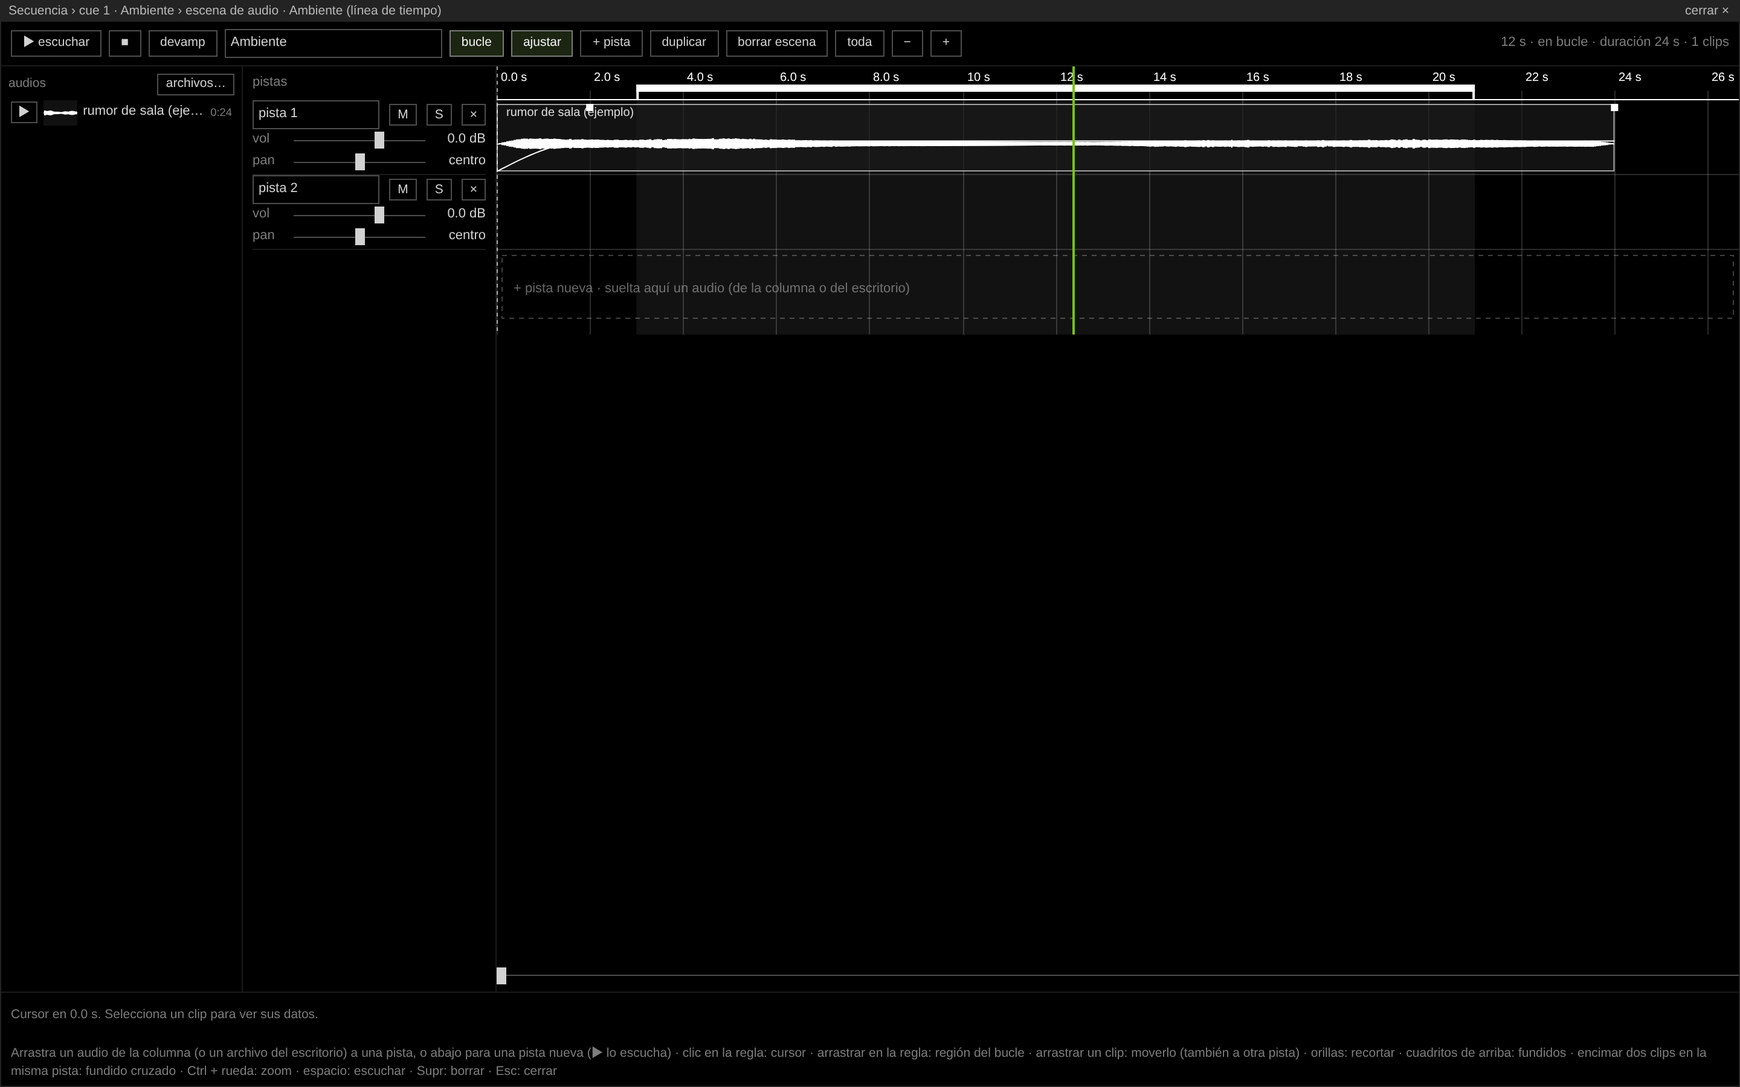
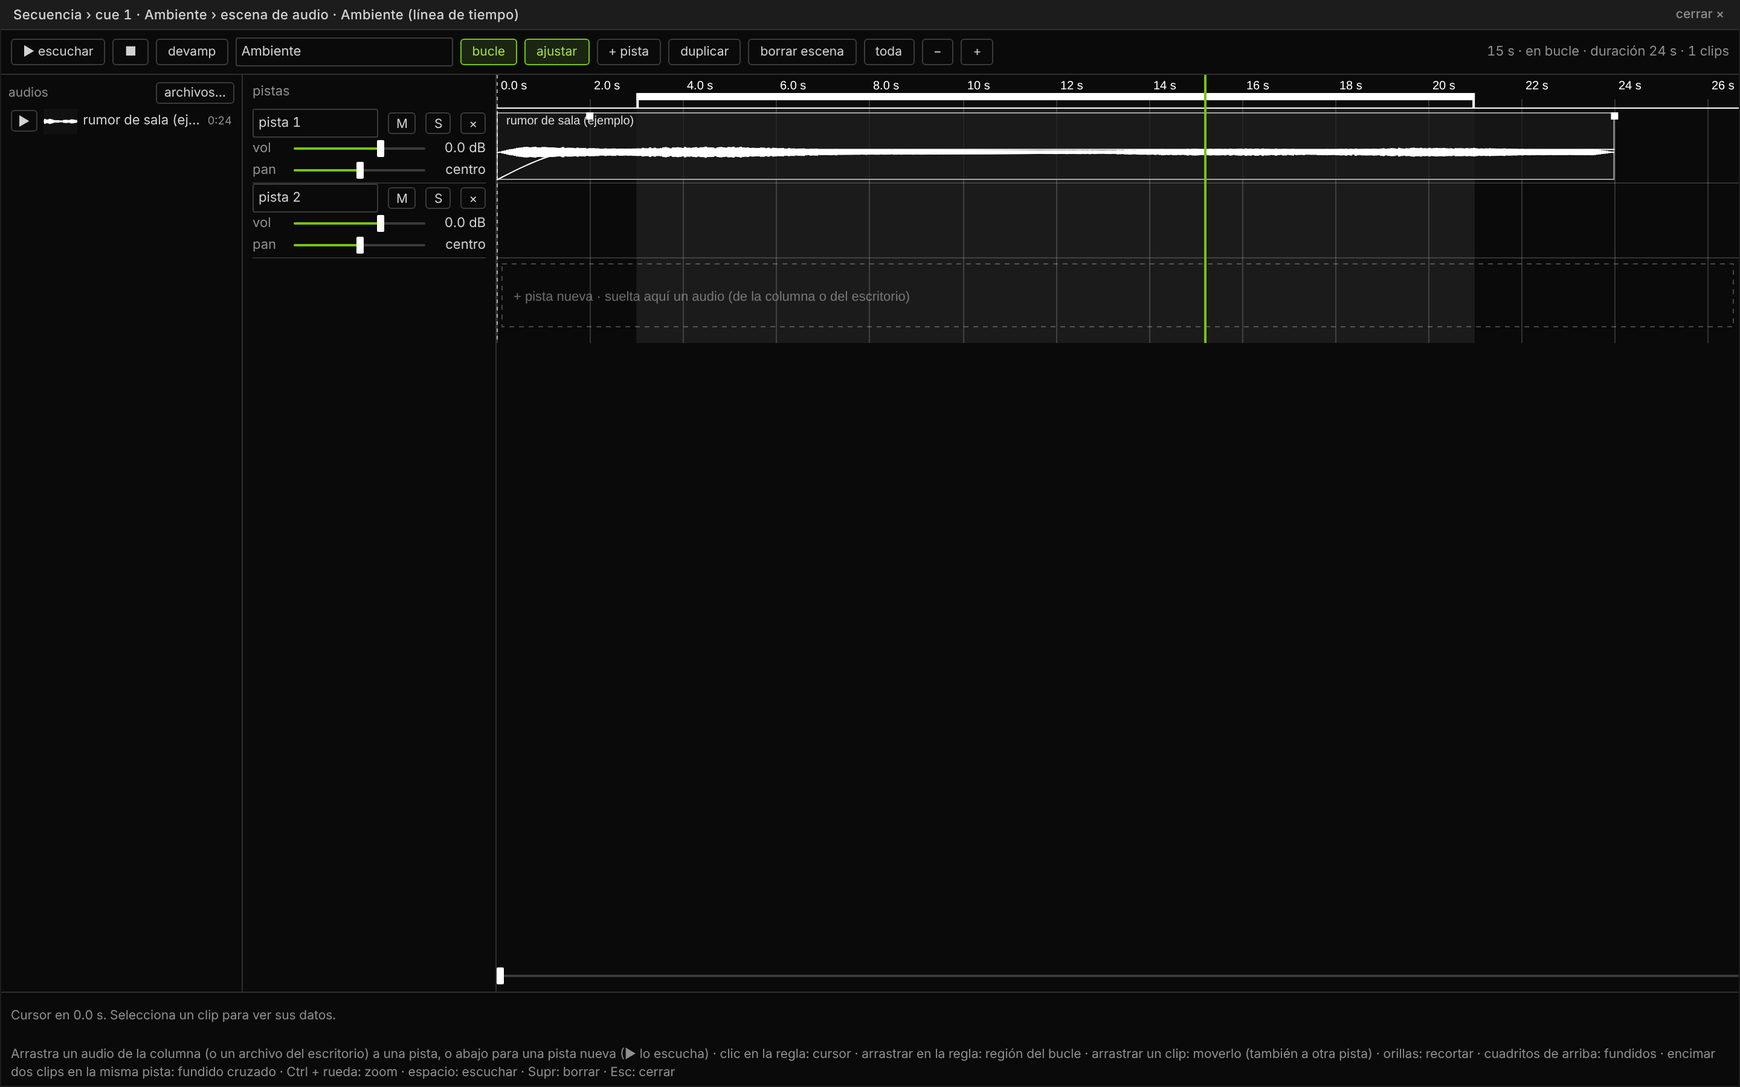
aurigaQ v041: interfaz con el estilo de la colección y capturas nuevas
- Contraste «suave» con Alchemy of Meaning UI v1: paneles casi negros,
  barras de título grises, líneas finas, radios de 3 px, deslizadores con
  recorrido de acento y el verde solo para lo vivo. «Alto» sin cambios.
- Cabeceras de capa del Timeline sin encimarse.
- Las diez capturas de docs/capturas rehechas con la interfaz nueva.

Claude-Session: https://claude.ai/code/session_01UhLHLyFeGcYgSn7U15QgHG

Changed region(s): [[0.0, 0.0, 1.0, 0.3422], [0.0, 0.9644, 0.9688, 0.9956]]

diff --git a/index.html b/index.html
@@ -4,7 +4,7 @@
 <meta charset="utf-8">
 <meta name="viewport" content="width=device-width, initial-scale=1, viewport-fit=cover">
 <!--
-  aurigaQ v040
+  aurigaQ v041
   Media server y gestor de cues para presentar en vivo los artefactos de la colección.
   Parte de la colección Alchemy of Meaning (Alquimia del Significado).
   © 2026 Héctor Cruz Juárez · https://hectorcruz.com.mx
@@ -328,6 +328,11 @@ input[type=file]{display:none}
 #escEd .eeHeads{width:210px;flex:none;border-right:1px solid var(--ln);padding:0 8px}
 #escEd .eeHead{display:flex;flex-direction:column;justify-content:center;gap:0;border-bottom:1px solid var(--ln)}
 #escEd .eeHead .dr .lb{width:26px}
+#escEd .eeHead.v{gap:2px}
+#escEd .eeHead.v .dr .lb{width:50px}
+#escEd .eeHead.v input[type=text],#escEd .eeHead.v select{height:20px;padding:0 4px}
+#escEd .eeHead.v input[type=range]{height:14px}
+#escEd .eeHead.v .b.s{min-height:20px}
 #escEd .eeRight{flex:1;min-width:0;display:flex;flex-direction:column}
 #escEd .eeCvw{min-width:0;flex:1}
 #escEd canvas{display:block;touch-action:none}
@@ -418,18 +423,58 @@ input[type=file]{display:none}
 .mtile.cur{border-color:var(--ac)}
 .lyr .mx i{background:var(--ac)}
 
-/* contraste suave: para sesiones largas de edición. Barras de título oscuras, líneas grises, texto gris claro
-   y la fila seleccionada en un verde muy oscuro con su borde verde. GO, modo y lo que está al aire siguen en verde. */
-html[data-contraste="suave"]{--fg:#d2d2d2;--ln2:#4d4d4d;--tb:#232323;--tbfg:#b8b8b8;--sel:#1b2512;--selfg:#f2f2f2;--g1:#7d7d7d;--ln:rgba(255,255,255,.1);--hv:rgba(255,255,255,.05);--hv2:rgba(255,255,255,.09)}
-html[data-contraste="suave"][data-barra="1"]{--tb:#2c2c2c}html[data-contraste="suave"][data-barra="2"]{--tb:#363636}html[data-contraste="suave"][data-barra="3"]{--tb:#1a1a1a}
-html[data-contraste="suave"] .win{border-color:#333}
-html[data-contraste="suave"] .ql tbody tr.cur td:first-child{box-shadow:inset 3px 0 0 var(--ac)}
-html[data-contraste="suave"] .mrow.cur{box-shadow:inset 2px 0 0 var(--ac)}
-html[data-contraste="suave"] .li.cur{box-shadow:inset 2px 0 0 var(--ac)}
-html[data-contraste="suave"] .b[aria-pressed="true"]{border-color:#7a7a7a}
-html[data-contraste="suave"] .ql tbody tr.cur td .dim,html[data-contraste="suave"] .mrow.cur .ix,html[data-contraste="suave"] .mrow.cur .inf,html[data-contraste="suave"] .li.cur small{color:#9a9a9a}
-html[data-contraste="suave"] #go:not(:hover){background:#0d1408}
-html[data-contraste="suave"] .tb .b,html[data-contraste="suave"] .win .tb .quitar{border-color:#5a5a5a}
+/* contraste suave = estilo Alchemy of Meaning UI v1 (colección): ventanas en panel gris casi negro, barras
+   de título grises, líneas finas, radios de 3 px. El verde es solo para lo vivo o principal (GO, activo,
+   al aire, progreso); los segmentados activos van en tinta clara. «alto» conserva el blanco sobre negro. */
+html[data-contraste="suave"]{
+  --a-bg:#0a0a0a;--a-panel:#101010;--a-bar:#1c1c1c;--a-line:#2e2e2e;--a-line-ctl:#3a3a3a;--a-hover:#1f1f1f;
+  --a-ink:#d2d2d2;--a-ink-strong:#fff;--a-ink-dim:#8f8f8f;
+  --a-accent:#76c411;--a-accent-ink:#a5e04a;--a-accent-bg:#1b2512;
+  --a-radius:3px;--a-radius-sm:2px;--a-gap:8px;--a-pad:10px;--a-bar-h:24px;--a-t:120ms;
+  --a-font:Inter,Arial,Helvetica,sans-serif;
+  --bg:var(--a-bg);--fg:var(--a-ink);--ln2:var(--a-line-ctl);--tb:var(--a-bar);--tbfg:var(--a-ink);--sel:var(--a-accent-bg);--selfg:var(--a-accent-ink);
+  --g1:var(--a-ink-dim);--ln:var(--a-line);--hv:rgba(255,255,255,.035);--hv2:var(--a-hover);--ink:var(--a-ink-strong)}
+html[data-contraste="suave"][data-barra="1"]{--tb:#262626}html[data-contraste="suave"][data-barra="2"]{--tb:#303030}html[data-contraste="suave"][data-barra="3"]{--tb:#141414}
+html[data-contraste="suave"] body{font-family:var(--a-font);font-variant-numeric:tabular-nums;-webkit-font-smoothing:antialiased}
+html[data-contraste="suave"] :focus-visible{outline:2px solid var(--a-accent);outline-offset:2px}
+/* ventanas: dentro de cada una, el fondo de controles y encabezados es el del panel */
+html[data-contraste="suave"] .win{--bg:var(--a-panel);background:var(--a-panel);border-color:var(--a-line);border-radius:var(--a-radius);overflow:hidden}
+html[data-contraste="suave"] .tb{height:var(--a-bar-h);padding:0 var(--a-pad);border-bottom:1px solid var(--a-line);font-size:11px;font-weight:500;letter-spacing:.02em}
+html[data-contraste="suave"] .tb button{color:var(--a-ink-dim);transition:color var(--a-t)}
+html[data-contraste="suave"] .tb button:hover{color:var(--a-ink-strong)}
+html[data-contraste="suave"] .tb small{color:var(--a-ink-dim);opacity:1}
+html[data-contraste="suave"] .tb .b,html[data-contraste="suave"] .win .tb .quitar{border-color:var(--a-line-ctl);color:var(--a-ink)}
+html[data-contraste="suave"] .wb{padding:var(--a-pad)}
+/* botones: activo = fondo y borde de acento; segmentados: activo en tinta clara */
+html[data-contraste="suave"] .b{border-color:var(--a-line-ctl);border-radius:var(--a-radius);transition:background var(--a-t),border-color var(--a-t),color var(--a-t)}
+html[data-contraste="suave"] .b:hover{background:var(--a-hover);border-color:#555}
+html[data-contraste="suave"] .b[aria-pressed="true"]{background:var(--a-accent-bg);border-color:var(--a-accent);color:var(--a-accent-ink)}
+html[data-contraste="suave"] .seg .b{border-radius:0}
+html[data-contraste="suave"] .seg .b[aria-pressed="true"],html[data-contraste="suave"] .ndCats .b[aria-pressed="true"],html[data-contraste="suave"] #contraste .b[aria-pressed="true"],html[data-contraste="suave"] .guiaTabs .b[aria-pressed="true"]{background:var(--a-ink);border-color:var(--a-ink);color:#0a0a0a;font-weight:500}
+/* campos */
+html[data-contraste="suave"] select,html[data-contraste="suave"] input[type=text],html[data-contraste="suave"] input[type=number],html[data-contraste="suave"] textarea{border-color:var(--a-line-ctl);border-radius:var(--a-radius-sm)}
+html[data-contraste="suave"] input:focus,html[data-contraste="suave"] select:focus,html[data-contraste="suave"] textarea:focus{border-color:#666}
+/* deslizador: línea de 2 px con relleno de acento (--fill lo pone rangosFill) y tirador de 6 × 14 */
+html[data-contraste="suave"] input[type=range]::-webkit-slider-runnable-track{height:2px;border-radius:1px;background:linear-gradient(to right,var(--a-accent) var(--fill,0%),var(--a-line-ctl) var(--fill,0%))}
+html[data-contraste="suave"] input[type=range]::-webkit-slider-thumb{width:6px;height:14px;margin-top:-6px;border-radius:1px;background:var(--a-ink-strong)}
+html[data-contraste="suave"] input[type=range]::-moz-range-track{height:2px;background:var(--a-line-ctl)}
+html[data-contraste="suave"] input[type=range]::-moz-range-progress{height:2px;background:var(--a-accent)}
+html[data-contraste="suave"] input[type=range]::-moz-range-thumb{width:6px;height:14px;border-radius:1px;background:var(--a-ink-strong)}
+/* barras de scroll discretas */
+html[data-contraste="suave"] .wb,html[data-contraste="suave"] .col,html[data-contraste="suave"] #B{scrollbar-color:var(--a-line-ctl) transparent}
+html[data-contraste="suave"] *{scrollbar-width:thin;scrollbar-color:var(--a-line-ctl) transparent}
+/* filas seleccionadas: verde muy oscuro con su marca de acento */
+html[data-contraste="suave"] .ql tbody tr.cur td:first-child{box-shadow:inset 3px 0 0 var(--a-accent)}
+html[data-contraste="suave"] .mrow.cur{box-shadow:inset 2px 0 0 var(--a-accent)}
+html[data-contraste="suave"] .li.cur{box-shadow:inset 2px 0 0 var(--a-accent)}
+html[data-contraste="suave"] .ql tbody tr.cur td .dim,html[data-contraste="suave"] .mrow.cur .ix,html[data-contraste="suave"] .mrow.cur .inf,html[data-contraste="suave"] .li.cur small{color:#a0a0a0}
+html[data-contraste="suave"] .cmenu{background:var(--a-panel);border-color:var(--a-line-ctl);border-radius:var(--a-radius)}
+/* GO: lo principal */
+html[data-contraste="suave"] #go{border-radius:var(--a-radius)}
+html[data-contraste="suave"] .guiaCmd{color:var(--a-ink-strong)}
+/* editores de tiempo y de nodos: medidas fijas por fila, se quedan en 11 px */
+html[data-contraste="suave"] #escEd,html[data-contraste="suave"] #nodEd .nd{font-size:11px}
+html[data-contraste="suave"] #go:not(:hover){background:var(--a-accent-bg);color:var(--a-accent-ink)}
 #contraste{display:flex;gap:0;align-items:center}
 #contraste .lbl{margin-right:6px}
 #contraste .b{min-height:20px;padding:0 8px;font-size:10px;margin-right:-1px}
@@ -511,7 +556,7 @@ body:not(.carriles) .ql .ln{display:none}
   <section id="B" aria-label="Inspector"></section>
   <footer id="F">
     <button id="aTag" type="button" aria-label="acerca de aurigaQ">i · aurigaq</button>
-    <div id="brandBox"><span id="brand">aurigaQ v040</span><span id="clock">00:00</span><button id="salud" type="button" class="saludb"></button></div>
+    <div id="brandBox"><span id="brand">aurigaQ v041</span><span id="clock">00:00</span><button id="salud" type="button" class="saludb"></button></div>
     <span class="gap"></span>
     <div id="modes" role="tablist" aria-label="modo"></div>
     <div id="fondo" class="tonos" role="group" aria-label="tono de fondo"></div>
@@ -525,7 +570,7 @@ body:not(.carriles) .ql .ln{display:none}
 
 <div class="ov" id="aboutView" hidden role="dialog" aria-modal="true" aria-labelledby="aboutTitle">
   <div class="card">
-    <h2 id="aboutTitle">aurigaQ v040</h2>
+    <h2 id="aboutTitle">aurigaQ v041</h2>
     <p>Media server para la escena. Carga los artefactos de la colección (instrumentos web como Fonoestratonika, Belkagraph o Cáustika), fotografías y videos, y los ordena en una lista de cues que se dispara en vivo con GO, con fundidos por capa, presets interpolados y mapeo de la salida.</p>
     <h3>Por qué existe</h3>
     <p>Los artefactos nacen como piezas sueltas. aurigaQ les da salida performática: un protocolo común para que cada uno exponga sus controles, y una forma de función donde el paso de un cue a otro es la esencia de la ejecución. Es el resultado de más de una década y media de investigación en el diseño multimedia y la videoproyección para la escena: de lo que una función en vivo necesita, de cómo se ensaya y de lo que no puede fallar.</p>
@@ -1065,7 +1110,7 @@ const slug=s=>s.toLowerCase().normalize('NFD').replace(/[̀-ͯ]/g,'').replace(/[
 function artRes(){return {width:Math.round(S.out.w*S.artScale/2)*2,height:Math.round(S.out.h*S.artScale/2)*2};}
 function resizeArts(){for(const a of S.lib.values())if(a.kind==='art'&&a.manifest){sendArt(a,{type:'resize',...artRes()});sendArt(a,{type:'welcome',...hostInfo()});}}
 // SDK 0.2: lo que el artefacto sabe del host al conectarse (y cuando cambia la resolución)
-function hostInfo(){const r=artRes();return {host:'aurigaQ',version:'v040',sdk:'0.2',width:r.width,height:r.height,calidad:(S.out.w<=1280||S.artScale<1)?'ligera':'completa'};}
+function hostInfo(){const r=artRes();return {host:'aurigaQ',version:'v041',sdk:'0.2',width:r.width,height:r.height,calidad:(S.out.w<=1280||S.artScale<1)?'ligera':'completa'};}
 function sendArt(a,msg){try{const m=Object.assign({ns:NS},msg),w=a.iframe.contentWindow;if(EW!==window&&EW.__aqSend)EW.__aqSend(w,m);else w.postMessage(m,'*');}catch(e){}}
 function startArt(a){if(a&&a.kind==='art'&&!a.running){sendArt(a,{type:'start'});a.running=true;}}
 function stopArt(a){if(a&&a.kind==='art'&&a.running){sendArt(a,{type:'stop'});a.running=false;}}
@@ -3612,7 +3657,7 @@ function estadoPieza(){
   const r=recursos(),live=S.cues.find(c=>c.id===S.liveId),sb=S.cues[S.sel],tz=(Intl.DateTimeFormat().resolvedOptions().timeZone)||'';
   const d=new Date(),off=-d.getTimezoneOffset(),iso=new Date(d.getTime()+off*60000).toISOString().slice(0,19)+(off>=0?'+':'-')+String(Math.floor(Math.abs(off)/60)).padStart(2,'0')+':'+String(Math.abs(off)%60).padStart(2,'0');
   let gpu='';try{const x=gl&&gl.getExtension('WEBGL_debug_renderer_info');if(x)gpu=String(gl.getParameter(x.UNMASKED_RENDERER_WEBGL)).replace(/^ANGLE \(|\)$/g,'').slice(0,60);}catch(e){}
-  return {version:'v040',show:S.showName||'',escenario:(S.escenarios[S.escActivo]||{}).nombre||'',cue:live?(live.num?live.num+' · ':'')+(live.name||cueLabel(live)):'',espera:sb?(sb.num?sb.num+' · ':'')+(sb.name||cueLabel(sb)):'',
+  return {version:'v041',show:S.showName||'',escenario:(S.escenarios[S.escActivo]||{}).nombre||'',cue:live?(live.num?live.num+' · ':'')+(live.name||cueLabel(live)):'',espera:sb?(sb.num?sb.num+' · ':'')+(sb.name||cueLabel(sb)):'',
     corriendo:S.running.length,museo:museoOn,horario:museoOn?enHorario():null,fps:r.fps,ms:+frameMs.toFixed(1),js:r.js?Math.round(r.js):0,audio:Math.round(r.audio),
     encendida:Math.round((performance.now()-T_ARRANQUE)/1000),arranques:ARRANQUES,inesperado:INESPERADO,errores:logErr,recuperaciones,
     lanzador:LANZADOR,motor:r.motor,volumen:S.audioMaster,hora:iso,tz,gpu,pantalla:screen.width+'×'+screen.height};
@@ -3743,6 +3788,12 @@ async function probarCodecs(){
     el('p',{class:'note'},'«Tarjeta gráfica: sí» quiere decir que el navegador decodifica ese formato de forma eficiente, casi siempre por hardware. Es una respuesta del navegador, no una medición: confírmalo con la prueba larga.'));
   return caja;
 }
+// estilo de la colección: el deslizador pinta su recorrido con --fill (0 a 100 %)
+function rangoFill(r){const mn=+r.min||0,mx=r.max===''?100:+r.max,v=+r.value;r.style.setProperty('--fill',(mx>mn?(v-mn)/(mx-mn)*100:0)+'%');}
+function rangosFill(raiz){(raiz||document).querySelectorAll('input[type=range]').forEach(rangoFill);}
+document.addEventListener('input',e=>{if(e.target&&e.target.type==='range')rangoFill(e.target);},true);
+setInterval(()=>{if(!document.hidden&&document.documentElement.dataset.contraste==='suave')rangosFill();},400);  // valores que cambian por código (niveles, cables)
+try{new MutationObserver(ms=>{for(const m of ms)for(const n of m.addedNodes)if(n.nodeType===1){if(n.matches&&n.matches('input[type=range]'))rangoFill(n);else if(n.querySelector&&n.querySelector('input[type=range]'))rangosFill(n);}}).observe(document.documentElement,{childList:true,subtree:true});}catch(e){}
 function buildSalida(){
   const L=$('#L');
   const {w,body}=win('Proyecto','wSal',L);w.dataset.modes='salida';
@@ -3761,7 +3812,7 @@ function buildSalida(){
   ib.append(el('div',{class:'fila'},el('span',{class:'lbl'},'contraste'),$('#contraste')),
     el('div',{class:'fila'},el('span',{class:'lbl'},'fondo'),$('#fondo')),
     el('div',{class:'fila'},el('span',{class:'lbl'},'cabeceras'),$('#barra')),
-    el('p',{class:'note'},'«Suave» para editar muchas horas; «alto» (blanco sobre negro) para la función. Se recuerdan en este navegador.'));
+    el('p',{class:'note'},'«Suave» (el estilo de la colección Alchemy of Meaning) para editar muchas horas; «alto» (blanco sobre negro) para la función. Se recuerdan en este navegador.'));
   const {body:qb}=win('Esta computadora','wEquipo',AJ);
   qb.append(el('p',{class:'note'},'No viajan con el show: son de este navegador.'),
     tgBtn('seguir en segundo plano',()=>S.fondo,v=>{S.fondo=v;try{localStorage.setItem('aurigaq.fondoPlano',v?'1':'0');}catch(e){}revisarFondo();},{title:'encendido, el motor sigue aunque aQ quede detrás de otro programa'}),
@@ -4097,7 +4148,7 @@ function eeHeads(){
   const e=EE.e,H=EE.heads;H.replaceChildren(el('div',{style:'height:'+EE_R+'px;display:flex;align-items:center;color:var(--g1)'},EE.vid?'capas (la de arriba, encima)':'pistas'));
   if(EE.vid){e.pistas.forEach((p,i)=>{
     const mk=(l,k,t)=>tgBtn(l,()=>!!p[k],v=>{p[k]=v;eeDraw();},{title:t,style:'min-height:18px;padding:0 6px'});
-    H.append(el('div',{class:'eeHead',style:'height:'+EE_TH+'px'},
+    H.append(el('div',{class:'eeHead v',style:'height:'+EE_TH+'px'},
       el('div',{class:'dr'},el('input',{type:'text',value:p.nombre,'aria-label':'nombre de la capa '+(i+1),style:'flex:1;width:0',onchange:ev=>{p.nombre=ev.target.value;}}),
         mk('M','mute','ocultar esta capa'),mk('S','solo','solo esta capa'),
         e.pistas.length>1?btn('×',()=>{const n=e.clips.filter(k=>k.pista===p.id).length;if(n&&!confirm('¿Quitar «'+p.nombre+'» y sus '+n+' clips?'))return;e.clips=e.clips.filter(k=>k.pista!==p.id);e.pistas.splice(i,1);EE.sel=null;eeCambio();eeHeads();eeSize();},'b s',{'aria-label':'quitar capa',style:'min-height:18px;padding:0 6px'}):null),
@@ -5549,7 +5600,7 @@ loadArt('artefactos/senal.html','art:senal');
 renumber();S.sel=0;
 renderLib();renderCues();renderInspector();updateH();
 offerRecover();
-log('arranque · aurigaQ v040'+(LANZADOR?' · con lanzador':'')+' · '+(navigator.userAgentData&&navigator.userAgentData.brands?navigator.userAgentData.brands.map(b=>b.brand+' '+b.version).filter(x=>!/Not/.test(x)).join(', '):navigator.userAgent.slice(0,80)));
+log('arranque · aurigaQ v041'+(LANZADOR?' · con lanzador':'')+' · '+(navigator.userAgentData&&navigator.userAgentData.brands?navigator.userAgentData.brands.map(b=>b.brand+' '+b.version).filter(x=>!/Not/.test(x)).join(', '):navigator.userAgent.slice(0,80)));
 try{const x=gl&&gl.getExtension('WEBGL_debug_renderer_info');if(x)log('tarjeta gráfica · '+gl.getParameter(x.UNMASKED_RENDERER_WEBGL));}catch(e){}
 addEventListener('pagehide',()=>{log('cierre');saveLog();});
 // app instalable que funciona sin internet (requiere HTTPS o localhost)

diff --git a/sw.js b/sw.js
@@ -6,7 +6,7 @@
   El resto sale de lo guardado y se actualiza por detrás.
   © 2026 Héctor Cruz Juárez · GPL-3.0-or-later
 */
-const VERSION = 'aurigaq-v040';
+const VERSION = 'aurigaq-v041';
 const BASE = ['./', 'index.html', 'salida.html', 'sdk/artefacto-sdk.js', 'manifest.webmanifest', 'icono-192.png', 'icono-512.png',
   'artefactos/orbitas.html', 'artefactos/senal.html', 'artefactos/plantilla.html',
   'sdk/ejemplos/datos.html', 'sdk/ejemplos/webgl.html'];

diff --git a/README.md b/README.md
@@ -1,6 +1,6 @@
 # aurigaQ (aQ)
 
-**Versión 0.40 (v040)** · Alchemy of Meaning (Alquimia del Significado) · Héctor Cruz Juárez
+**Versión 0.41 (v041)** · Alchemy of Meaning (Alquimia del Significado) · Héctor Cruz Juárez
 
 ![La cue list en función: el cue en espera arriba, el Monitor y lo que está al aire a la derecha](docs/capturas/01-funcion.png)
 
@@ -17,6 +17,7 @@ La herramienta responde a esas preguntas con decisiones de diseño:
 - **El paso de un cue a otro es la esencia de la función.** Todo se organiza en una lista que avanza con GO, con su transición y su comportamiento.
 - **Estabilidad antes que efectos.** Límites puestos a propósito: 720p o 1080p, audio estéreo, recursos que solo trabajan cuando están al aire o en espera. Está pensada para la laptop de un taller.
 - **Abierta y portátil.** Un solo archivo HTML, sin instalación ni internet, con licencia libre.
+- **Una sola gramática visual.** La interfaz sigue el estilo de la colección Alchemy of Meaning: fondo negro, ventanas pequeñas con líneas finas y el verde reservado para lo que está vivo (GO, lo que está al aire, el progreso). El modo de contraste «alto» devuelve el blanco sobre negro para la función.
 
 ### Qué hace
 
@@ -62,7 +63,7 @@ La herramienta responde a esas preguntas con decisiones de diseño:
 
 Antes de publicar una versión, `python3 herramientas/armar-docs.py` regenera la guía de medios, la guía de artefactos y la copia del SDK en `sdk/versiones/`.
 
-Las capturas se tomaron en un navegador sin GPU, así que los cuadros por segundo que muestran no reflejan el rendimiento real.
+Las capturas (v041, contraste «suave») se tomaron en un navegador sin GPU, así que los cuadros por segundo que muestran no reflejan el rendimiento real.
 
 ## English
 

diff --git a/sdk/README.md b/sdk/README.md
@@ -1,6 +1,6 @@
 # Artefacto SDK · aurigaQ
 
-**SDK 0.2 · protocolo `artefacto/v0` · aurigaQ v040** · Alchemy of Meaning (Alquimia del Significado) · Héctor Cruz Juárez · GPL-3.0-or-later
+**SDK 0.2 · protocolo `artefacto/v0` · aurigaQ v041** · Alchemy of Meaning (Alquimia del Significado) · Héctor Cruz Juárez · GPL-3.0-or-later
 
 Un **artefacto** es una app web (un instrumento visual o sonoro hecho en HTML, Canvas o WebGL) que aurigaQ presenta en vivo. El SDK es un solo archivo JavaScript, sin dependencias, que conecta la app con aQ:
 
@@ -133,7 +133,7 @@ function setup() {
 | aurigaQ | SDK | Protocolo | Notas |
 |---|---|---|---|
 | hasta v039 | 0.1 | artefacto/v0 | parámetros, `trigger`, `start`, `stop`, `hud`, `status` |
-| v040 | 0.2 | artefacto/v0 | `data`, `emit`, `fire`, `onHost`; salidas en el nodo Artefacto |
+| v040 y v041 | 0.2 | artefacto/v0 | `data`, `emit`, `fire`, `onHost`; salidas en el nodo Artefacto |
 
 El protocolo sigue siendo `artefacto/v0`: lo nuevo se agrega sin romper lo anterior. Una pieza con SDK 0.1 funciona en aQ v040, y una con SDK 0.2 funciona en un aQ anterior (sin sus salidas de datos).
 

diff --git a/crear-artefacto-aurigaq.md b/crear-artefacto-aurigaq.md
@@ -2,7 +2,7 @@
 
 Documento para iniciar un chat nuevo que construya un artefacto (una pieza visual o sonora en HTML) que se cargue en aurigaQ, o para adaptar una app que ya existe. Pégalo o adjúntalo al principio y luego describe la pieza.
 
-Versión de este documento: **SDK 0.2 · protocolo artefacto/v0 · aurigaQ v040**. Se regenera con `herramientas/armar-docs.py` en cada versión de aQ; la plantilla y el SDK de abajo son copia exacta de los archivos del repositorio.
+Versión de este documento: **SDK 0.2 · protocolo artefacto/v0 · aurigaQ v041**. Se regenera con `herramientas/armar-docs.py` en cada versión de aQ; la plantilla y el SDK de abajo son copia exacta de los archivos del repositorio.
 
 ## Qué es un artefacto
 

diff --git a/docs/guia-de-medios.md b/docs/guia-de-medios.md
@@ -1,4 +1,4 @@
-# Guía de medios · aurigaQ v040
+# Guía de medios · aurigaQ v041
 
 Buenas prácticas para que videos, audios, imágenes, artefactos y cámaras corran bien en aurigaQ.
 Es la misma guía que aparece en la app (Ajustes › Guía de medios). Allí, la pestaña «esta computadora» pregunta al navegador qué formatos abre, si los reproduce con fluidez y si usa la tarjeta gráfica.
